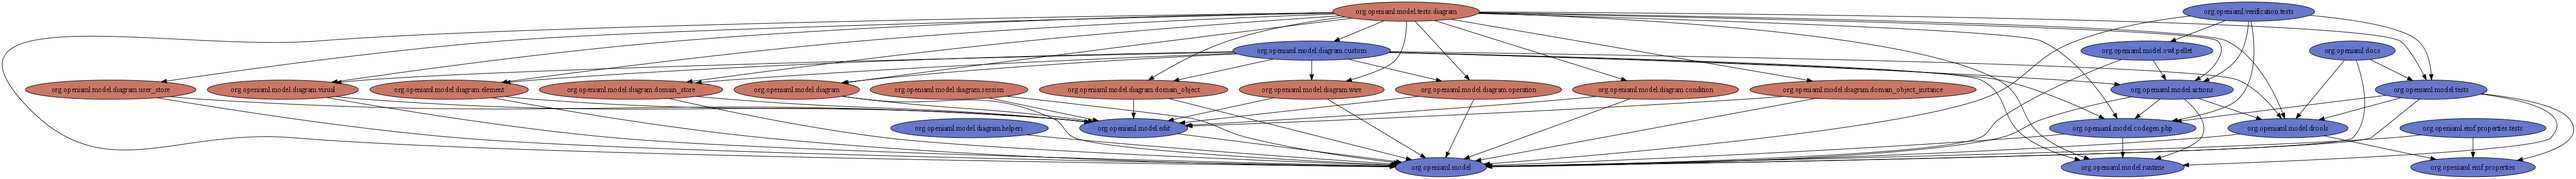
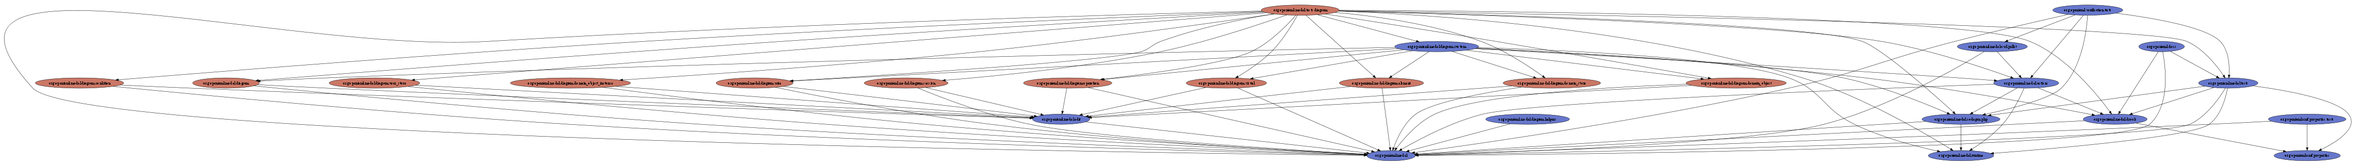
updating dependency graphs

diff --git a/org.openiaml.model.tests/src/org/openiaml/model/tests/release/ExportDependencyGraph.java b/org.openiaml.model.tests/src/org/openiaml/model/tests/release/ExportDependencyGraph.java
@@ -156,7 +156,7 @@ public class ExportDependencyGraph extends XmlTestCase {
 
 	public void exportLocalDependencies(Map<String, List<String>> dependencies, Writer out) throws IOException {
 		out.write("digraph {\n");
-		out.write("  size=\"52,52\";\n");
+		out.write("  size=\"48,72\";\n");
 		out.write("  ratio=expand;\n");
 		
 		// print out all nodes that we are using
